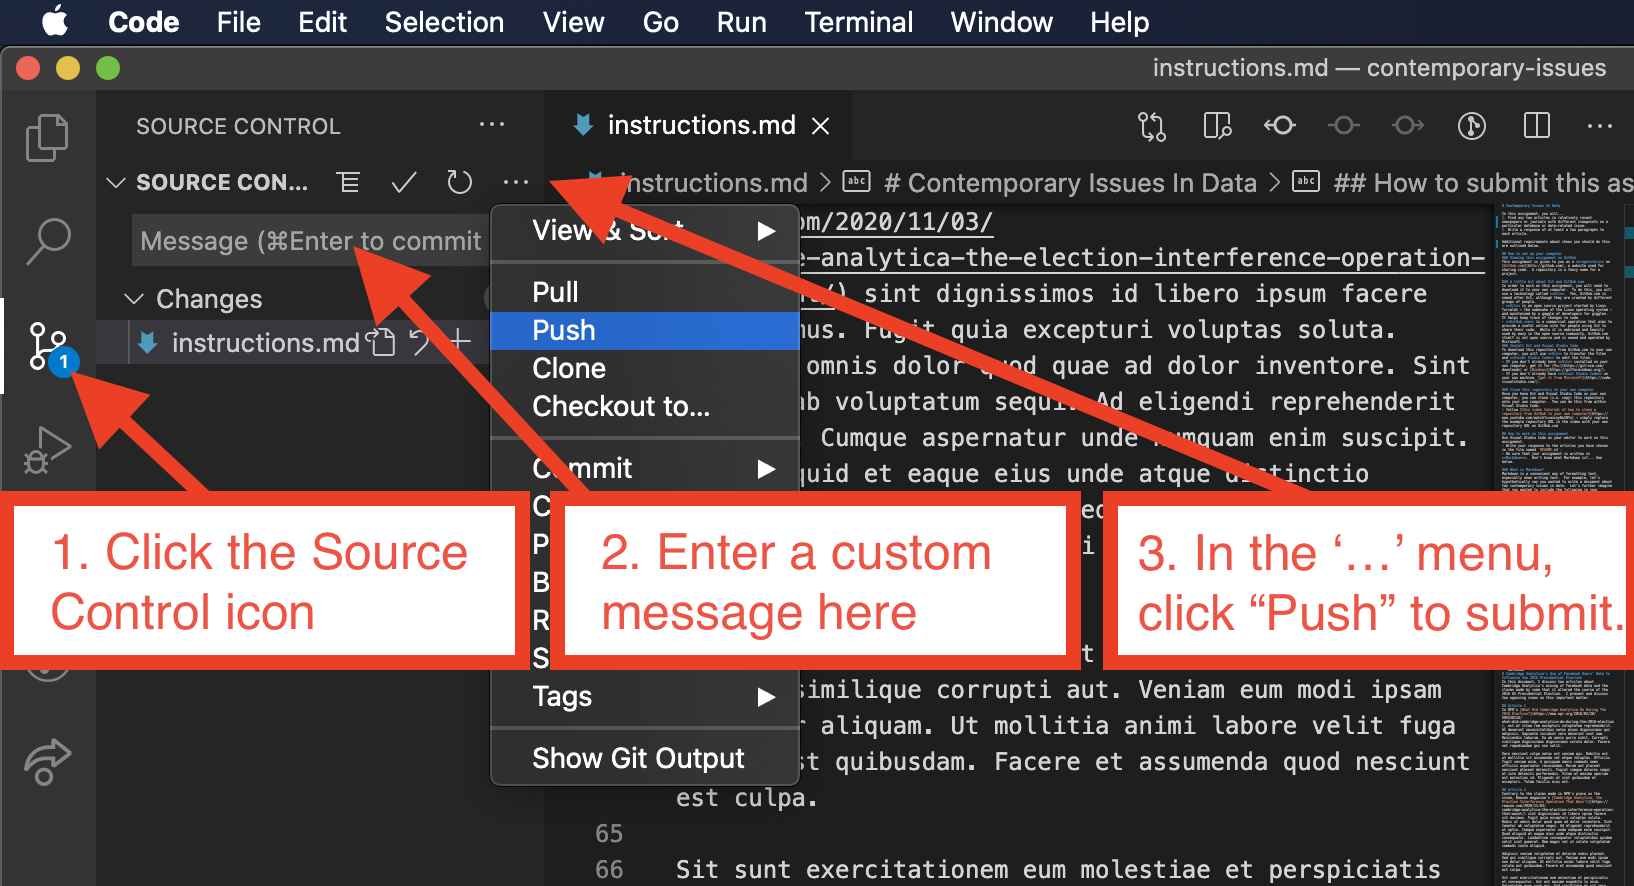
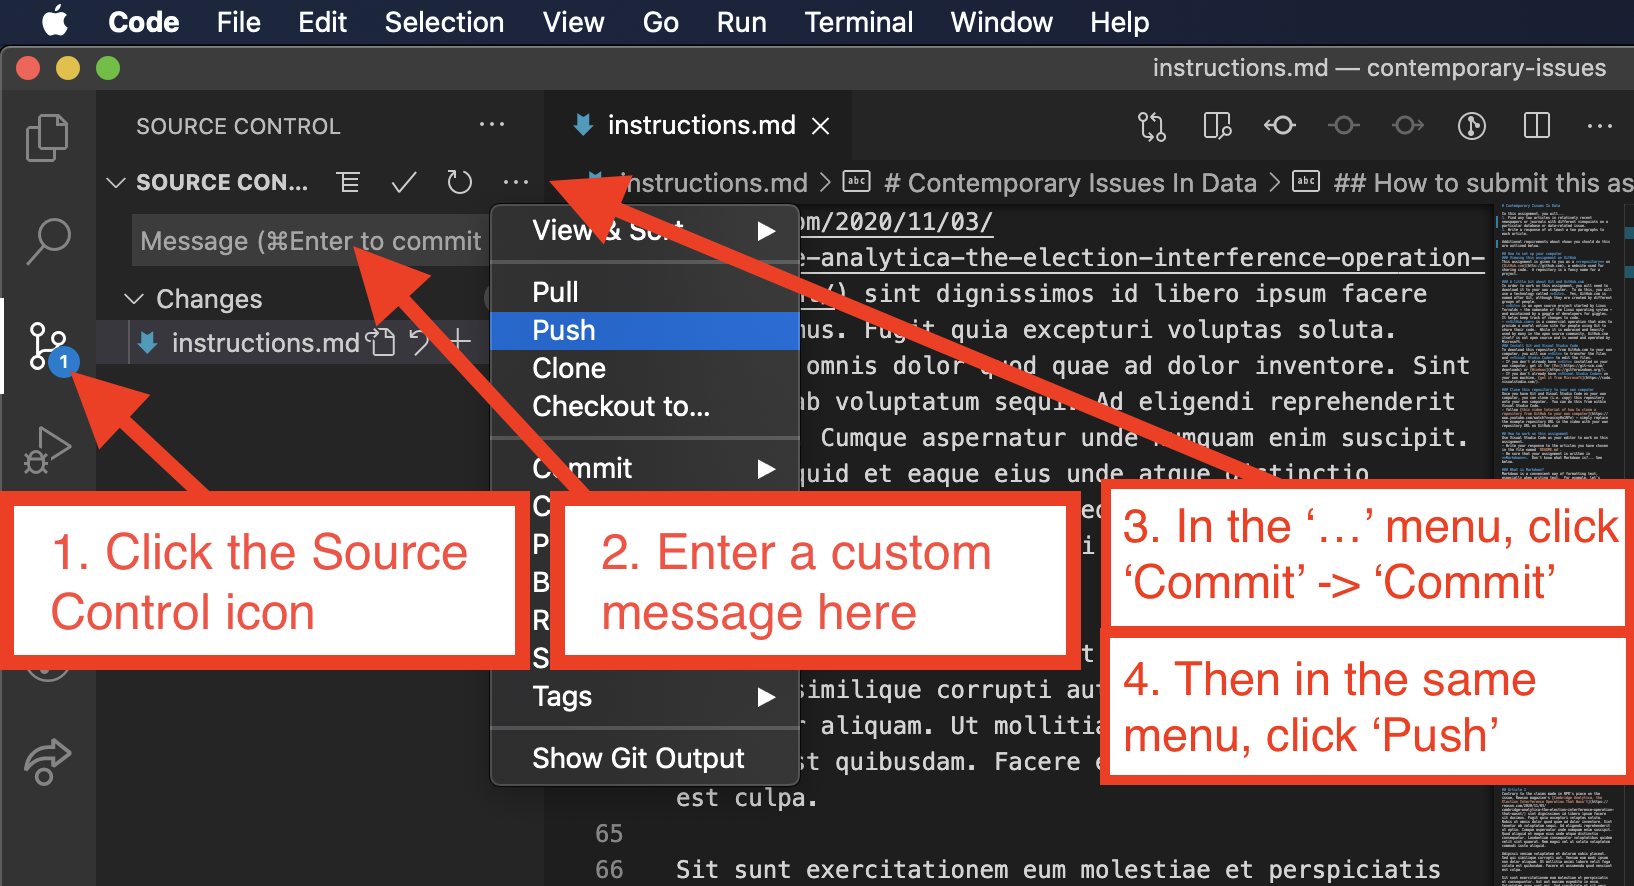
adding commit

Changed region(s): [[0.6554, 0.5181, 1.0, 0.8837], [0.0312, 0.3962, 0.0624, 0.4266]]

diff --git a/instructions.md b/instructions.md
@@ -70,7 +70,8 @@ Sit sunt exercitationem eum molestiae et perspiciatis et consequuntur. Aut aut m
 Once you have written your assignment, formatted it nicely in Markdown, and saved it into the file named `README.md`, you are ready to submit it.  Do this from within Visual Studio Code.
 1. Click on the `Source Control` icon in the left side bar in Visual Studio Code.
 1. In the Source Control panel, you will see a field named `Message` - type in a unique message about what you have done, e.g. "*Finished assignment!*" or whatever you want to write as a short note to yourself.
-1. Hover over the words `Source Control`. You will see a `...` icon appear - click it to see a menu.  In that menu, click `Push` to submit your assignment - this uploads your updated files to the copy of your respository on GitHub.
+1. Hover over the words `Source Control`. You will see a `...` icon appear - click it to see a menu.  In that menu, click `Commit`->`Commit`.  This logs the changes you've made to the Git project - remember Git is used to keep track of changes.
+1. Go to the same menu and click `Push` to submit your assignment - this uploads your updated files to the copy of your respository on GitHub.
 
 ![Push changes to GitHub](./images/how_to_push_changes_to_github_from_vscode.png)
 
